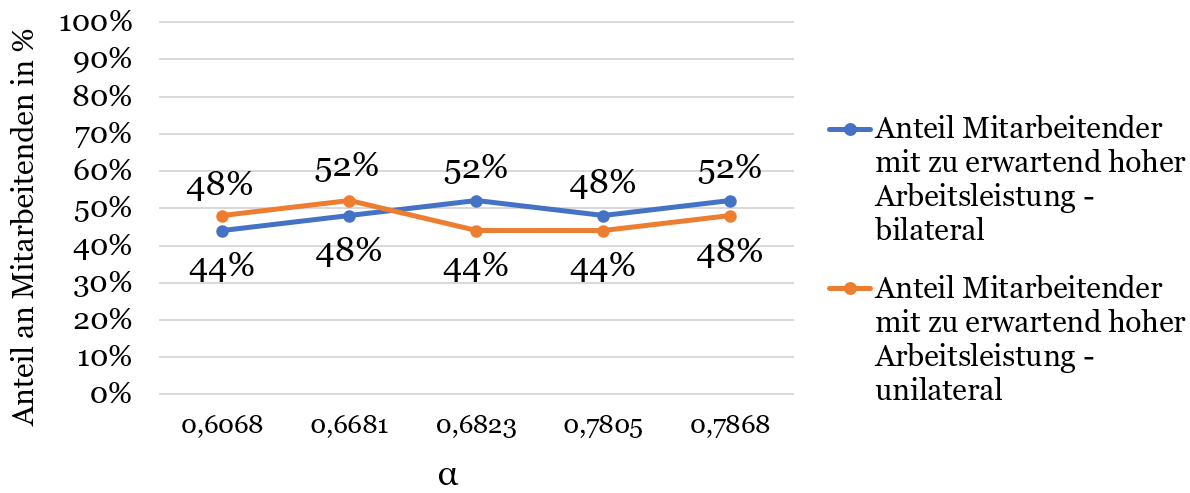
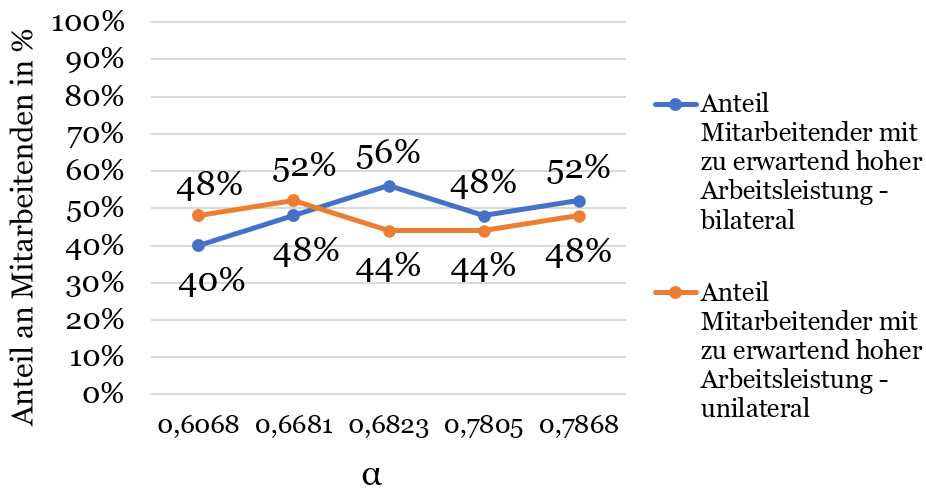
Fertigstellen ergebnisse

diff --git a/chapters/ergebnisse.tex b/chapters/ergebnisse.tex
@@ -9,7 +9,7 @@
 \section{Ergebnisse der Mitarbeitendenbefragung}
 An der Befragung der Mitarbeitenden bei EXXETA nahmen insgesamt 54 Mitarbeitende aus neun verschiedenen Teams teil.
 Der Großteil der Befragten ($\approx$ 70 Prozent) stellten Mitarbeitende aus dem Team Java Enterprise Solutions dar, wobei sich die übrigen Mitarbeitenden nahezu gleichmäßg auf die anderen acht Teams (Business Application Development???) verteilt.
-Die Befragung war für Mitarbeitende jedes Senioritätsniveaus und jeder Stellenbeschreibung zugängig.
+Die Befragung war für Mitarbeitende jedes Senioritätslevels und jeder Stellenbeschreibung zugängig.
 
 % Von den 31 angefragten Fähigkeiten gaben Mitarbeitende im Mittel bei 38 Prozent der Fähigkeiten an Grundkenntnisse und bei 19 Prozent fortgeschrittene Kenntnisse zu besitzen (Werte aufgerundet auf die 2. Nachkommastelle).
 % Bei knapp 43 Prozent der Fähigkeiten gaben die Befragten an, keine Kenntnisse zu besitzen.
@@ -42,9 +42,9 @@ Aus dem Diagramm geht hervor, dass die Befragten im Durchschnitt mehr Fähigkeit
 Mit 36 Prozent beherrscht und präferiert ein Mitarbeitender im Mittel den Großteil der insgesamt angefragten Fähigkeiten (blau markierter Bereich).
 Von seinen beherrschten Fähigkeiten will ein Mitarbeitender folglich knapp zwei Drittel zukünftig weiter in Projekten einsetzen (36 von 57 Prozent).
 Mit 21 Prozent treten bei einem durchschnittlichen Befragten am zweithäufigsten Fähigkeiten auf, in denen dieser keine Kenntnisse besitzt und indifferent ist, ob er diese Fähigkeiten zukünftig in Projekten anwenden wird, oder nicht (gelb hinterlegter Bereich mit grauen Punkten).
-Darauf folgen 16 Prozent der angeforderten Fähigkeiten, die ein Mitarbeitender im Mittel nicht beherrscht und auch kein Interesse äußert, diese in zukünftigen anzuwenden (gelb markierter Bereich).
+Darauf folgen 16 Prozent der angeforderten Fähigkeiten, die ein Mitarbeitender im Mittel nicht beherrscht und auch kein Interesse äußert, diese in zukünftigen Projekten anzuwenden (gelb markierter Bereich).
 Weitere 15 Prozent der Fähigkeiten beherrscht ein durchschnittlicher Mitarbeitender und steht der Option, diese in zukünftigen Projekten einzusetzen, neutral gegenüber (blau hinterlegter Bereich mit grauen Punkten). 
-Die übrigen 12 Prozent verteilen sich gleichmäßig auf die Fähigkeiten, die ein Mitarbeitender beherrscht, aber nicht präferiert (blau hinterlegter Bereich mit gelbner Schraffierung) und die Fähigkeiten, in denen ein Mitarbeitender keine Kenntnisse besitzt, diese aber präferiert (gelb hinterlegter Bereich mit blauer Schraffierung).
+Die übrigen 12 Prozent verteilen sich gleichmäßig auf die Fähigkeiten, die ein Mitarbeitender beherrscht, aber nicht präferiert (blau hinterlegter Bereich mit gelber Schraffur) und die Fähigkeiten, in denen ein Mitarbeitender keine Kenntnisse besitzt, diese aber präferiert (gelb hinterlegter Bereich mit blauer Schraffur).
 Von den beherrschten Fähigkeiten haben Mitarbeitende im Mittel folglich bei circa 10 Prozent kein Interesse, diese beherrschten Fähigkeiten in Projekten (weiter) anzuwenden (6 von 57 Prozent).
 Bei den nicht-beherrschten Fähigkeiten beläuft sich der Anteil an Fähigkeiten, die ein Mitarbeitender nicht beherrscht, aber zukünftig gerne in Projekten anwenden würde auf ganze 14 Prozent (6 von 43 Prozent).
 % Demnach weist ein Mitarbeitender im Durchschnitt $2$ Fähigkeiten aus, die er nicht beherrscht, aber gerne anwenden würde und 2 Fähigkeiten die er beherrscht, aber kein Interesse hat, diese in Projekten weiter anzuwenden.
@@ -58,7 +58,7 @@ Die prozentuale Verteilung der Fähigkeiten und Präferenzen ist in Abbildung \r
 	\label{fig:ergebnisse:abb2}
 \end{figure}
 
-Insgesamt wird deutlich, dass sich die Verteilung auf Projektebene nicht maßgeblich von der Ursprungsverteilung unterscheidet.
+Insgesamt wird deutlich, dass sich die Verteilung auf Projektebene nicht maßgeblich von der Ursprungsverteilung unterscheidet (Vgl. Abbildung \ref{fig:ergebnisse:abb1}).
 Jedoch weist sie in einigen Punkten nennenswerte Abweichungen auf.
 So geht aus der Abbildung hervor, dass Projekt 5 mit 48 Prozent die meisten Projektpositionen enthält, die Mitarbeitende als beherrscht und präferiert bewertet haben (blau markierter Balken).
 Damit liegt die Verteilung der beherrschten und präferierten Fähigkeiten bei Projekt 5 um  12 Prozentpunkte über der Ursprungsverteilung.
@@ -79,7 +79,7 @@ Am häufigsten gaben die Mitarbeitenden an mit einem Beispielprojekt gar nicht z
 
 In Abbildung \ref{fig:ergebnisse:abb3} ist die Zufriedenheit der Mitarbeitenden anhand der einzelnen Projekte abgebildet.
 Daraus geht hervor, dass die Mitarbeitenden mit insgesamt 55 Prozent am häufigsten angaben mit Projekt 4 zufrieden zu sein (Anteile "Eher zufrieden" und "Voll und ganz zufrieden").
-Im Gegensatz waren die Befragten mit Projekt 3 am wenigsten zufrieden.
+Mit Projekt 3 waren die Befragten im Vergleich am wenigsten zufrieden.
 Der Anteil der zufriedenen Mitarbeitenden lag hier bei 31 Prozent.
 Verglichen mit der Verteilung der Fähigkeiten und Präferenzen in Abbildung \ref{fig:ergebnisse:abb2} fällt auf, dass bei Projekt 3 auch der Anteil der Fähigkeiten, die von den Mitarbeitenden nicht präferiert wurden mit 26 Prozent am höchsten ausfiel (blau hinterlegter Balken mit gelber Schraffur und gelb markierter Balken).
 
@@ -109,8 +109,9 @@ Den Verteilungen ist zu entnehmen, dass die höchsten Übereinstimmung der Präf
 Die Anzahl der Befragten, die eine Übereinstimmung über 80 Prozent erreichten lag hier je Projekt bei 13 Mitarbeitenden.
 Insgesamt ist die Anzahl der Mitarbeitenden, die eine mittlere bis hohe Übereinstimmung aufwiesen (Rate der Übereinstimmung größer 40 Prozent) bei Projekt 5 mit 39 Befragten am höchsten.
 
-Trotz der hohen Übereinstimmung der Präferenzen mit den angeforderten Projektpositionen von Projekt 5 fällt bei Betrachtung von Abbildung \ref{fig:ergebnisse:abb3} auf, dass bei der Befragung der Zufriedenheit lediglich 35 Prozent der Befragten angaben mit dem Projekt 5 zufrieden zu sein.
+Auffällig ist, dass trotz der hohen Übereinstimmung der Präferenzen mit den angeforderten Projektpositionen von Projekt 5, bei der Befragung der Zufriedenheit lediglich 35 Prozent der Befragten angaben mit dem Projekt 5 zufrieden zu sein (Vgl. Abbildung \ref{fig:ergebnisse:abb3}).
 Im Verhältnis zu den anderen Projekten ist Projekt 5 hinsichtlich der angegebenen Zufriedenheit der Mitarbeitenden damit das Projekt mit der zweitkleinsten Anzahl zufriedener Befragter.
+% den kommenden teil in die diskussion packen?
 Ein detaillierter Abgleich der Mitarbeitenden, die angaben mit Projekt 5 zufrieden zu sein, mit den Mitarbeitenden, die eine hohe Übereinstimmung aufwiesen (> 80 Prozent) zeigte, dass lediglich 5 dieser 13 Mitarbeitenden auch angaben, mit dem Projekt zufrieden zu sein.
 Weiter ist zu erkennen, dass Projekt 4 zwar bei der Befragung der Zufriedenheit die höchste Anzahl an zufriedenen Mitarbeitenden aufwies ($\approx$ 30 Befragte), in der Übereinstimmung der Präferenzen jedoch im Vergleich am zweitwenigsten Mitarbeitende eine Übereinstimmung über 40 Prozent aufwiesen.
 Darüber hinaus liegt die Anzahl an Mitarbeitenden mit einer Übereinstimmung der Präferenzen unter 20 Prozent\footnote{inkl.} bei Projekt 4 mit 23 Befragten mit Abstand am höchsten.
@@ -154,7 +155,7 @@ Analog zu den Histogrammen aus Abbildung \ref{fig:ergebnisse:abb4}, bildet jedes
   \label{fig:ergebnisse:abb7}
 \end{figure}
 
-Ein Vergleich der histografischen Verteilungen je Projekt in Abbildung \ref{fig:ergebnisse:abb7} zeigen, dass die größte Übereinstimmung ($>$ 80 Prozent) bei Projekt 2 vorliegt (Vgl. Abbildung \ref{fig:ergebnisse:abb7:2}).
+Ein Vergleich der histografischen Verteilungen je Projekt in Abbildung \ref{fig:ergebnisse:abb7} zeigt, dass die größte Übereinstimmung ($>$ 80 Prozent) bei Projekt 2 vorliegt (Vgl. Abbildung \ref{fig:ergebnisse:abb7:2}).
 Insgesamt wiesen 11 der 54 Mitarbeitenden eine hohe Übereinstimmung mit den Projektpositionen von Projekt 2 auf.
 Verglichen mit der durch die Manager angegebenen erwarteten Arbeitsleistung aus Abbildung \ref{fig:ergebnisse:abb5} fällt auf, dass sich die Anzahl der Mitarbeitenden mit hoher Arbeitsleistung in einem ähnlichen Bereich befindet.
 Für Projekt 2 gaben die Manager hier insgesamt 9 unterschiedliche Mitarbeitende an, von denen sie eine hohe Arbeitsleistung erwarten würden.
@@ -179,7 +180,7 @@ Ein Abgleich der Angabe der 23 Mitarbeitenden durch die Manager mit den 26 Mitar
 \section{Evaluation des Algorithmus}
 Für die Evaluation des entwickelten Algorithmus wurden die 54 Datensätze zufällig in Trainings- und Testdaten unterteilt.
 Dafür wurde jeder Datensatz mit einer eindeutigen Identifikationsnummer versehen (1 Datensatz $\hat{=}$ 1 Mitarbeitendem).
-Anhand der Identifikationsnummer wurden zufällig 75 Prozent der Datensätze ($\hat{=}$ aufgerundet 41 Mitarbeitenden) ausgewählt und als Trainingsdaten herangezogen.
+Anhand der Identifikationsnummer wurden zufällig 75 Prozent der Datensätze ($\hat{=}$ aufgerundet 41 Mitarbeitenden) ausgewählt und für das Training verwendet.
 Die übrigen 25 Prozent der Datensätze ($\hat{=}$ abgerundet 13 Mitarbeitenden) wurden als Testdaten herangezogen.
 
 Um eventuell auftretenden Bias bei der zufälligen Aufteilung der Datensätze in Trainings- und Testdaten zu vermeiden, wurde das zufällige Aufteilen insgesamt fünf mal wiederholt.
@@ -191,12 +192,12 @@ Dieses Gewicht wurde im Anschluss an den bilateralen Algorithmus übergeben.
 Anhand der Mitarbeitenden des Testdatensatzes eines jeden Samples wurden daraufhin für jedes Projekt einmal anhand des uni- und einmal anhand des bilateralen Algorithmus ein Ranking der fünf passensten Mitarbeitenden ermittelt.
 
 Um die Auswirkungen des bilateralen Algorithmus auf die Zufriedenheit der Mitarbeitenden zu ermitteln, wurde die Genauigkeit der Empfehlungen unter Anwendung des jeweiligen Algorithmus bestimmt.
-Für die Bestimmung der Genauigkeit des jeweiligen Algorithmus wurde für jedes Projekt innerhalb eines Samples die Mitarbeitenden des unilateralen sowie des bilateralen Rankings ermittelt, die angaben mit dem jeweiligen Projekt zufrieden zu sein ("Eher zufrieden" und "Voll und ganz zufrieden").
+Für die Bestimmung der Genauigkeit des jeweiligen Algorithmus wurden für jedes Projekt innerhalb eines Samples die Mitarbeitenden des unilateralen sowie des bilateralen Rankings ermittelt, die angaben mit dem jeweiligen Projekt zufrieden zu sein ("Eher zufrieden" und "Voll und ganz zufrieden").
 Daraufhin wurde der Anteil an zufriedenen Mitarbeitenden unter den fünf empfohlenen Mitarbeitenden je Ranking ermittelt und miteinander verglichen.
 Die Veränderung des Anteils des bilateralen Rankings im Vergleich zum unilateralen Ranking diente als Indikator dafür, ob die Zufriedenheit gestiegen, gesunken oder gleich blieb.
 
 Für die Ermittlung der Auswirkung des bilateralen Algorithmus auf die Arbeitsleistung der Mitarbeitenden wurde analog zu der Zufriedenheit vorgegangen.
-Hierbei wurden die Anteile jedoch anhand der Mitarbeitenden des unilateralen bzw. des bilateralen Rankings ermittelt, deren Arbeitsleistung von den Mitarbeitenden in dem jeweiligen Projekt als hoch eingestuft wurden.
+Hierbei wurden die Anteile jedoch anhand der Mitarbeitenden des unilateralen bzw. des bilateralen Rankings ermittelt, deren Arbeitsleistung von mindestens einem Manager in dem jeweiligen Projekt als hoch eingestuft wurde.
 
 Insgesamt wurde die Veränderung der Anteile von unilateralem zu bilateralem Algorithmus je Kennzahl (Zufriedenheit, Arbeitsleistung) für 25 Projekte ermittelt (5 Samples \`{a} 5 Projekte).
 % Die Veränderung der Anteile unter Einsatz des unilateralen Algorithmus zu den Anteilen unter Anwendung des bilateralen Algorithmus ist in Abbildung \ref{fig:ergebnisse:abb8} grafisch dargestellt.
@@ -219,8 +220,10 @@ Nachfolgend werden die Auswirkungen auf die Kennzahlen im Detail betrachtet.
 \subsection{Auswirkung auf die Zufriedenheit der Mitarbeitenden}
 In Abbildung \ref{fig:ergebnisse:abb8} ist der durchschnittliche Anteil an zufriedenen Mitarbeitenden an den unilateralen und an den bilateralen Rankings je Projekt dargestellt.
 Der Anteil unter Einsatz des bilateralen Algorithmus ist durch eine blaue Linie dargestellt, während der Anteil unter Anwendung des unilateralen Algorithmus durch eine orangene Linie gekennzeichnet ist.
-Abbildung \ref{fig:ergebnisse:abb8} zeigt, dass der Anteil zufriedener Mitarbeitender unter Einsatz des bilateralen Algorithmus für vier der fünf Projekt im Mittel über dem Anteil unter Anwendung des unilateralen Algorithmus lag.
-Lediglich bei Projekt 3 ist zu erkennen, dass der durchschnittliche Anteil zufriedener Mitarbeitender durch den Einsatz des bilateralen Algorithmus nicht stieg.
+Abbildung \ref{fig:ergebnisse:abb8} zeigt, dass der Anteil zufriedener Mitarbeitender unter Einsatz des bilateralen Algorithmus bei vier der fünf Projekte im Mittel über dem Anteil unter Anwendung des unilateralen Algorithmus lag.
+Lediglich bei Projekt 3 ist zu erkennen, dass die durchschnittlichen Anteile zufriedener Mitarbeitender beider Algorithmen übereinstimmen.
+Darüber hinaus ist sichtbar, dass der Anteil zufriedener Mitarbeitender bei Projekt 3 sample-übergreifend bei beiden Algorithmen am niedrigsten und bei Projekt 4 am höchsten lag.
+% Diese Struktur stimmt mit der Verteilung der Zufriedenheit der Mitarbeitenden nach Projekt in Abbildung \ref{fig:ergebnisse:abb3} überein.
 % Im Mittel wurden demnach in dem Experiment sample-und projektübergreifend durch Einsatz des bilateralen Algorithmus vermehrt Mitarbeitende empfohlen, die eine hohe Zufriedenheit für die jeweiligen Projekte angaben.
 
 \begin{figure}[H]
@@ -241,9 +244,9 @@ Neben der Anzahl an Projekten ist in der Abbildung darüber hinaus abgebildet, i
 	\label{fig:ergebnisse:abb9}
 \end{figure}
 
-Aus Abbildung \ref{fig:ergebnisse:abb9} geht hervor, dass in dem Experiment bei 16 der 25 Fälle hinsichtlich der Auswirkungen auf die Zufriedenheit weder eine Verschlechterung noch eine Verbesserung festgestellt werden konnte.
-Weiter ist zu erkennen, dass durch den Einsatz des bilateralen Algorithmus in 28 Prozent der Fällen (7 von 25) eine Steigerung der Zufriedenheit unter den empfohlenen Mitarbeitenden erzielt wurde.
-Lediglich in zei der 25 Fälle führte der Einsatz des bilateralen Algorithmus zu einer Reduktion des Anteils zufriedener Mitarbeitender im Vergleich zu dem Anteil unter Anwendung des unilateralen Algorithmus.
+Abbildung \ref{fig:ergebnisse:abb9} zeigt, dass in dem Experiment bei 16 der 25 Fälle hinsichtlich der Auswirkungen auf die Zufriedenheit weder eine Verschlechterung noch eine Verbesserung festgestellt werden konnte.
+Weiter ist zu erkennen, dass der bilaterale Algorithmus in 28 Prozent der Fällen (7 von 25) für eine höhere Zufriedenheit unter den empfohlenen Mitarbeitenden sorgte.
+Lediglich in zwei der 25 Fälle führte der Einsatz des bilateralen Algorithmus zu einer Reduktion des Anteils zufriedener Mitarbeitender im Vergleich zu dem Anteil unter Anwendung des unilateralen Algorithmus.
 Aus der Abbildung geht hervor, dass beide Fälle bei Projekt 3 auftraten (hellblauer Balken bei "gesunken").
 
 % Ein Vergleich der der Veränderungen bei beiden Kennzahlen zeigt darüber hinaus, dass die Zufriedenheit im Verhältnis zu der erwarteten Arbeitsleistung in mehr Fällen gestiegen ist.
@@ -278,28 +281,64 @@ Abbildung \ref{fig:ergebnisse:abb11} stellt die Veränderung der Anteile an Mita
 	\label{fig:ergebnisse:abb11}
 \end{figure}
 
-Daraus geht hervor, dass in dem Experiment bei 17 der 25 Fälle hinsichtlich der Auswirkungen auf die erwartete Arbeitsleistung weder eine Verschlechterung noch eine Verbesserung festgestellt werden konnte.
-In der Abbildung ist zu erkennen, dass sowohl Projekt 1 als auch Projekt 5 sample-übergreifend überhaupt keine Veränderung aufwiesen (blauer und grauer Balken bei "gleich").
-Weiter ist zu erkennen, dass der Anteil an Mitarbeitenden mit zu erwartend hoher Arbeitsleistung durch den Einsatz des bilateralen Algorithmus sogar in 5 der 25 Fälle im Vergleich zu dem Anteil unter Anwendung des unilateralen Algorithmus gestiegen ist.
+Daraus geht hervor, dass in dem Experiment bei 17 der 25 Fälle hinsichtlich der Auswirkungen auf die erwartete Arbeitsleistung weder eine Verschlechterung noch eine Verbesserung festgestellt wurde.
+Die Abbildung zeigt, dass sowohl Projekt 1 als auch Projekt 5 sample-übergreifend überhaupt keine Veränderung aufwiesen (blauer und grauer Balken bei "gleich").
+Weiter ist zu erkennen, dass der bilaterale Algorithmus in 5 der 25 Fälle sogar zu einer höheren zu erwartenden Arbeitsleistung der empfohlenen Mitarbeitenden führte. 
 In drei der 25 Fälle führte der Einsatz des bilateralen Algorithmus zu einer Reduktion des Anteils an Mitarbeitenden mit zu erwartend hoher Arbeitsleistung im Vergleich zu dem Anteil unter Anwendung des unilateralen Algorithmus.
-Aus der Abbildung geht hervor, dass diese ReduktionFälle bei Projekt 2 und Projekt 3 auftraten (hellgrauer und -blauer Balken bei "gesunken").
+Aus der Abbildung geht hervor, dass diese Fälle bei Projekt 2 und Projekt 3 auftraten (hellgrauer und -blauer Balken bei "gesunken").
 
 \subsection{Einfluss der Gewichtung von Fähigkeiten und Präferenzen}
+Neben den Auswirkungen des bilateralen und unilateralen Algorithmus wurde darüber hinaus der Einfluss der Gewichtung von Fähigkeiten und Präferenzen auf Zufriedenheit und Arbeitsleistung betrachtet.
+Tabelle \ref{tab:ergebnisse:tab1} zeigt je Sample, welcher $\alpha$-Wert als optimales Gewicht der Fähigkeiten ermittelt wurde.
+
+\begin{table}[htbp]
+    \begin{center}
+    \begin{tabular}{c|c}
+    {\textbf{Sample}} & {\boldmath$\alpha$}\\
+    \hline
+    0 & 0.7868 \\
+    \hline
+	1 & 0.6068 \\
+    \hline
+    2 & 0.6823 \\
+    \hline
+	3 & 0.7805 \\
+    \hline
+	4 & 0.6681 \\
+    \end{tabular}
+    \end{center}
+    \caption[Ermitteltes Gewicht $\alpha$ je Sample]{Ermitteltes Gewicht $\alpha$ je Sample}
+	\label{tab:ergebnisse:tab1}
+\end{table}
+
+Die Veränderung des Anteils an zufriedenen Mitarbeitenden von unilateralem zu bilateralem Algorithmus in Abhängigkeit des Gewichts $\alpha$ ist in Abbildung \ref{fig:ergebnisse:abb12} dargestellt.
+In Abhängigkeit des $\alpha$-Werts ist abgebildet, bei wie vielen Projekten der Anteil an zufriedenen Mitarbeitenden im Vergleich zum unilateralen Algorithmus gestiegen, gesunken oder gleich geblieben ist.
 
 \begin{figure}[H]
     \centering
-	\includegraphics[width=0.95\textwidth]{gfx/verhaeltnis-z-nach-alpha.png}
-	\caption[Anteil zufriedener Mitarbeitender in unilateralen und bilateralen Rankings nach $\alpha$-Wert im Mittel]{Anteil zufriedener Mitarbeitender in unilateralen und bilateralen Rankings nach $\alpha$-Wert im Mittel}
+	\includegraphics[width=0.95\textwidth]{gfx/verhaeltnis-z-nach-alpha-ges.png}
+	\caption[Veränderung der Zufriedenheit der Mitarbeitenden von unilateralem zu bilateralem Algorithmus nach $\alpha$-Wert]{Veränderung der Zufriedenheit der Mitarbeitenden von unilateralem zu bilateralem Algorithmus nach $\alpha$-Wert}
 	\label{fig:ergebnisse:abb12}
 \end{figure}
 
+Abbildung \ref{fig:ergebnisse:abb12} zeigt, dass für keines der Gewichte alle fünf Projekte einer Kategorie zugeordnet wurden.
+Insgesamt ist zu erkennen, dass mit Ausnahme des $\alpha$-Werts von 0.6068 (Sample 1) mit jedem Gewicht in mindestens einem der fünf Projekte eine Steigerung der Zufriedenheit erreicht werden konnte.
+Auffällig ist außerdem, dass die zwei Fälle mit gesunkener Zufriedenheit in den Samples mit den niedrigsten Gewichten für $\alpha$ und demnach den höchsten Gewichten für die Präferenzen erzielt wurden.
+Die meisten Projekte mit gestiegener Zufiedenheit bei den empfohlenen Mitarbeitenden konnten mit dem Gewicht 0.6823 (Sample 2, 3 Projekte) erzielt werden (grüner Balken bei "gestiegen").
+
+Hinsichtlich des Einflusses auf die zu erwartende Arbeitsleistung der Mitarbeitenden ist in Abbildung \ref{fig:ergebnisse:abb13} die Veränderung des Anteils an Mitarbeitenden mit zu erwartend hoher Arbeitsleistung von unilateralem zu bilateralem Algorithmus in Abhängigkeit des Gewichts $\alpha$ abgebildet.
+
 \begin{figure}[H]
     \centering
-	\includegraphics[width=0.95\textwidth]{gfx/verhaeltnis-a-nach-alpha.png}
-	\caption[Anteil an Mitarbeitenden mit zu erwartend hoher Arbeitsleistung in unilateralen und bilateralen Rankings nach $\alpha$-Wert im Mittel]{Anteil an Mitarbeitenden mit zu erwartend hoher Arbeitsleistung in unilateralen und bilateralen Rankings nach $\alpha$-Wert im Mittel}
+	\includegraphics[width=0.95\textwidth]{gfx/verhaeltnis-a-nach-alpha-ges.png}
+	\caption[Veränderung der zu erwartenden Arbeitsleistung der Mitarbeitenden von unilateralem zu bilateralem Algorithmus nach $\alpha$-Wert]{Veränderung der zu erwartenden Arbeitsleistung der Mitarbeitenden von unilateralem zu bilateralem Algorithmus nach $\alpha$-Wert}
 	\label{fig:ergebnisse:abb13}
 \end{figure}
 
+Analog zu der Zufriedenheit ist in Abbildung \ref{fig:ergebnisse:abb13} zu erkennen, dass bei keinem der Gewichte alle fünf Projekte einer Kategorie zugeordnet wurden.
+Weiter geht aus der Abbildung hervor, dass die drei Projekte mit gesunkener Arbeitsleistung durch die Samples mit den niedrigsten Gewichten für die Fähigkeit bewirkt wurden (2 Projekte mit $\alpha$=0.6068, 1 Projekt mit $\alpha$=0.6681).
+Wie für die Zufriedenheit konnte eine Steigerung der Arbeitsleistung bei den meisten Projekten mit dem Gewicht 0.6823 (Sample 2, 3 Projekte) erreicht werden (Vgl. Abbildung \ref{fig:ergebnisse:abb12}).
+Mit dem höchsten Gewicht unter den Samples (Sample 4, $\alpha$=0.7868) konnte die Zufriedenheit lediglich in einem Projekt gesteigert werden (hellgrüner Balken bei "gestiegen").
 % GRAPHEN ANPASSEN!
 
 

diff --git a/chapters/diskussion.tex b/chapters/diskussion.tex
@@ -6,12 +6,39 @@
 \chapter{Diskussion}
 \label{ch:diskussion}
 
+Kurz eingehen auf die ergebnisse der präferenz und fähigkeitsbefragung
+
+% Abgleich Präferenzen angeforderte Projektpositionen:
+% Ein detaillierter Abgleich der Mitarbeitenden, die angaben mit Projekt 5 zufrieden zu sein, mit den Mitarbeitenden, die eine hohe Übereinstimmung aufwiesen (> 80 Prozent) zeigte, dass lediglich 5 dieser 13 Mitarbeitenden auch angaben, mit dem Projekt zufrieden zu sein.
+% Weiter ist zu erkennen, dass Projekt 4 zwar bei der Befragung der Zufriedenheit die höchste Anzahl an zufriedenen Mitarbeitenden aufwies ($\approx$ 30 Befragte), in der Übereinstimmung der Präferenzen jedoch im Vergleich am zweitwenigsten Mitarbeitende eine Übereinstimmung über 40 Prozent aufwiesen.
+% Darüber hinaus liegt die Anzahl an Mitarbeitenden mit einer Übereinstimmung der Präferenzen unter 20 Prozent\footnote{inkl.} bei Projekt 4 mit 23 Befragten mit Abstand am höchsten.
+% Hier wieder bei diskussion die  schwankung erklären -> annahme, dass das mit der ANzahl der angeforderten Projektpositionen zusammenhängt!
+
+Argumentation:
+\begin{itemize}
+    \item Zufriedenheit zu integrieren ist auf jeden Fall gut -> daher ergebnisse besser
+    \item Wie dann gewichtet wird scheint weniger eine Rolle zu spielen -> sehr schwankende Ergebnisse
+    \item Die geringe Bedeutung der Gewichtung kann auch darauf zurückzuführen sein, dass viele Mitarbeitende auch das präferieren, was sie können (daher ist die Diskrepanz zwischen hohem und kleinen gewicht nicht so groß) -> überprüfen!!
+    \item Haupterkenntnis ist also, dass es wichtig ist die Zufriedenheit zu berücksichtigen, Gewicht an sich aber kaum eine Rolle gespiel that, hauptsache die Präferenzen sind dabei
+    \item Die Präferenzen ist dann das was den unterschied macht zwischen "Mitarbeitender passt" und "Mitarbeitender passt gut"
+    \item Viele unbekannte Einflussfaktoren auf die Zufriedenheit: Gewichtung der einzelnen Präferenzen für einen Mitarbeitenden, andere Projekte die zur Auswahl stehen
+    \item Unbekannte Einflussfaktoren auf die Arbeitsleistung: welche Fähigkeiten einem Mitarbeitendem fehlen spielt eine entscheidende rolle -> kann er diese schnell erlernen oder nicht?
+    \item Next steps: Experteninterviews um zu identifizieren, was das kernproblem des bestehenden algorithmus ist und dann kriterium mit aufnehmen anhand einer der vorgestellten maßnahmen
+    \item perspektivisch auch die Präferenzen integrieren, aber geringere Bedeutung als andere Kriterien (Verfügbarkeit, Vollständigkeit und Aktualität der Daten, Teamzugehörigkeit)
+    \item Wichtige überlegung: problem der auswahl mitarbeitender für projekte ist entscheidungsproblem -> Frage, wieviel man dem system übergibt und was man den Managern noch an Entscheidung überlässt (bspw. Zufriedenheit als slider)
+\end{itemize}
+
 % Für die diskussion bzgl. der ergebnisse bei den ergebnissen auf kommentare achten!
 % Hier auf die unterschiede zwischen histogramm und zufriedenheit bzw. erwartete arbeitsleistung angaben hinweisen!
 
 %Ein Vergleich der Veränderungen bei beiden Kennzahlen zeigt zudem, dass die Zufriedenheit im Verhältnis zu der erwarteten Arbeitsleistung in mehr Fällen gestiegen ist.
 % Zugleich führte der bilaterale Algorithmus in zwei Fällen zu einer Verschlechterung der zu erwarteten Arbeitsleistung und in einem Fall zu einer Verschlechterung der Zufriedenheit.
 
+% Bei den Gewichten: wenn sich sowohl alpha als auch mitarbeitende ändern dann verändert sich zu viel input -> ob ein mitarbeitender dann in liste ist oder nicht ist zu ausschlaggebend
+% wenn alle mitarbeitende gleich bleiben und nur alpha sich verändert kommen trotzdem komische werte raus :D
+% dass bei 4 der 5 verschiedenen gewichte eine steigerung erzielt werden konnte deutet eher darauf hin, dass die gewichtung hier nicht ausschlaggebend war. dies spricht auch dafür, dass bei demselben gewicht die zufriedenheit bei manchen gewichten sowohl gestiegen als auch gesunken ist 
+% -> hier auch ergebnisse über alle mitarbeitenden hinweg anführen für die edge cases 0,1 und 0,9 und zeigen, wie es sich da verhält
+Daraus geht hervor, dass keines der Gewichte eindeutig zu einer Verbesserung oder einer Verschlechterung im Vergleich zum unilateralen Algorithmus geführt hat.
 
 % Fragen:
 % \begin{itemize}
